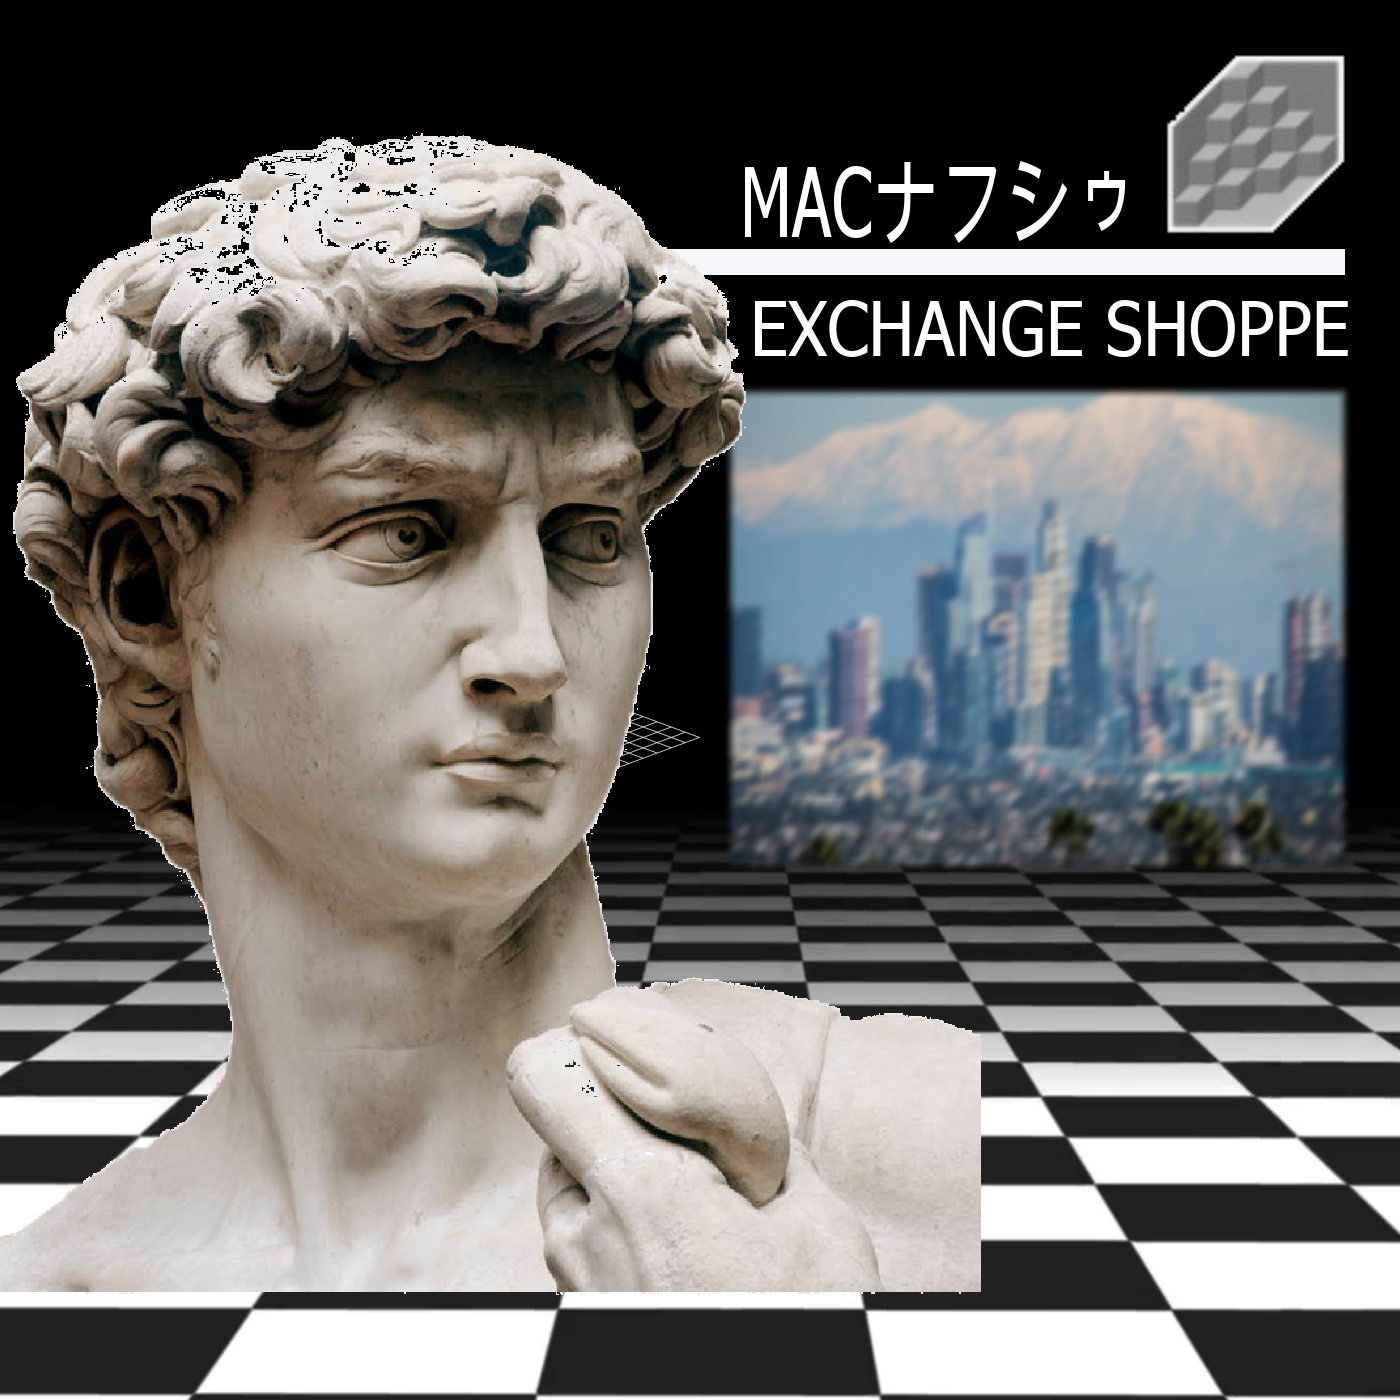
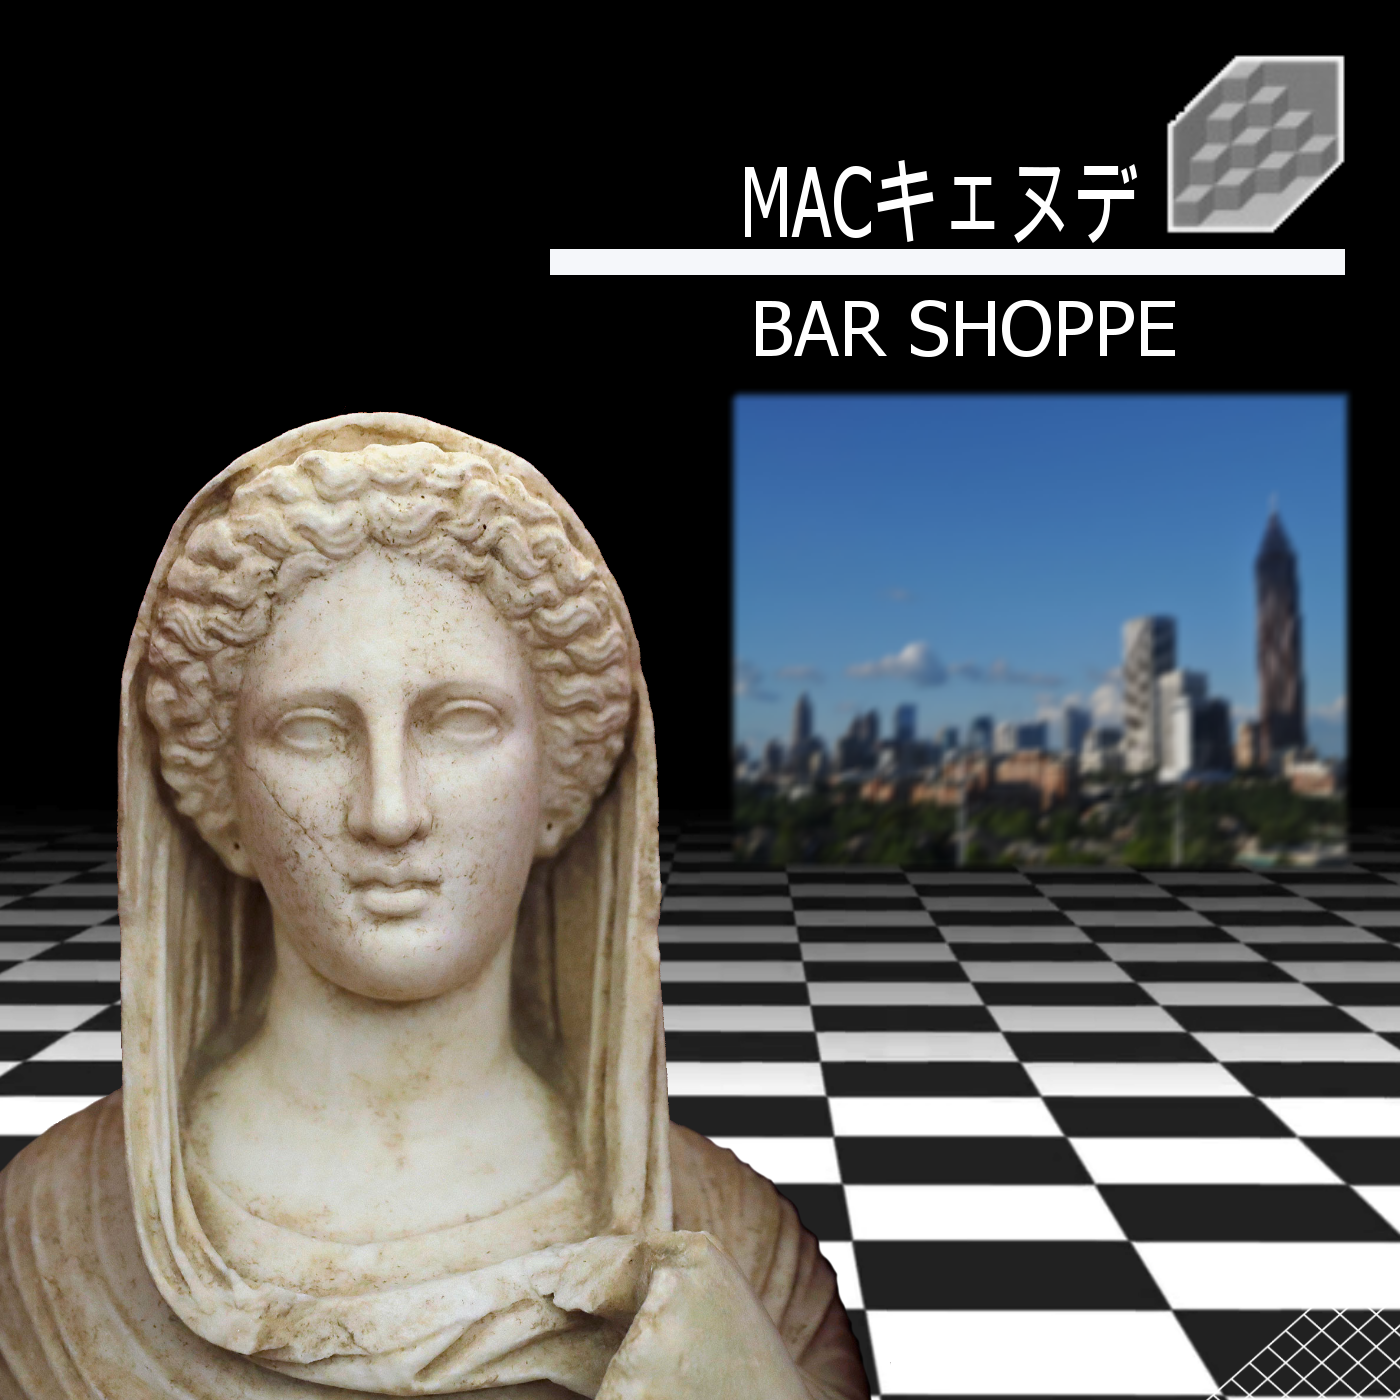
Added a bit more statues, started support with "vaw"

diff --git a/commands/root.js b/commands/root.js
@@ -23,14 +23,13 @@ const options = yargs
   })
  .argv;
 
- console.log(options.m);
 switch ( options.m ) {
   case "a" || "all":
     require("index.js");
     console.log("x");
     break;
   case "c" || "cover" || "covers":
-    _generateCover(options.p);
+    require("../bin/covers");
     break;
   case "t" || "track" || "tracks":
     _generateTracks(options.p, options.count);
